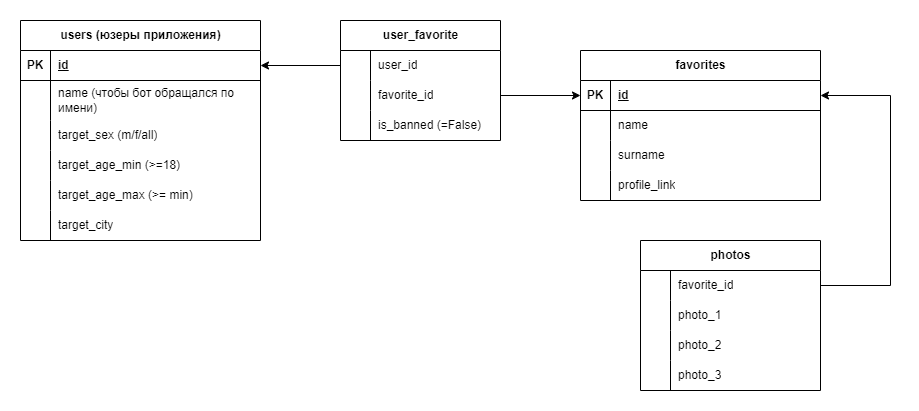
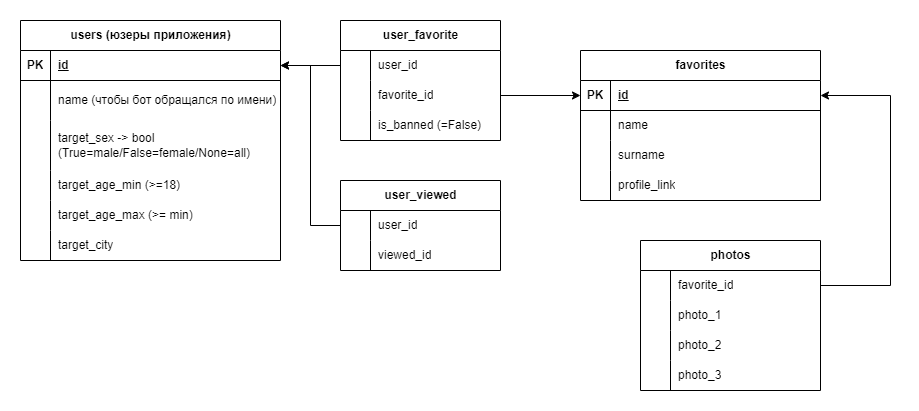
new funcs in temp.py

diff --git a/database/temp.py b/database/temp.py
@@ -112,26 +112,37 @@ users = [
      'target_age_min': 25, 'target_age_max': 32, 'target_city': 'Москва'},
     {'id': 55512122, 'name': 'Анатолий', 'target_sex': False,
      'target_age_min': 18, 'target_age_max': 24, 'target_city': 'Санкт-Петербург'},
-    # {'id': 55512123, 'name': 'Андрей', 'target_sex': False,
-    #  'target_age_min': 16, 'target_age_max': 18, 'target_city': 'Москва'},
-    # {'id': 55512124, 'name': 'Наталья'},
+    {'id': 55512123, 'name': 'Андрей', 'target_sex': False,
+     'target_age_min': 16, 'target_age_max': 18, 'target_city': 'Москва'},
+    {'id': 55512124, 'name': 'Наталья'},
     {'id': 55512125, 'name': 'Ипполит', 'target_sex': False,
      'target_age_min': 30, 'target_age_max': 35, 'target_city': 'Казань'}
 ]
 
 favorites = [
-    {'id': 55500111, 'name': 'Марья', 'surname': 'Болконская', 'profile_link': 'https://vk.com/id55500111'},
-    {'id': 55500112, 'name': 'Елена', 'surname': 'Курагина', 'profile_link': 'https://vk.com/id55500112'},
-    {'id': 55500113, 'name': 'Пётр', 'surname': 'Безухов', 'profile_link': 'https://vk.com/id55500113'},
-    {'id': 55512124, 'name': 'Наталья', 'surname': 'Ростова', 'profile_link': 'https://vk.com/id55512124'}
+    {'id': 55500111, 'name': 'Марья', 'surname': 'Болконская', 'profile_link': 'https://vk.com/id55500111',
+     'photos': {'photo_1': 111, 'photo_2': 222, 'photo_3': 333}},
+    {'id': 55500112, 'name': 'Елена', 'surname': 'Курагина', 'profile_link': 'https://vk.com/id55500112',
+     'photos': {'photo_1': 111}},
+    {'id': 55500113, 'name': 'Пётр', 'surname': 'Безухов', 'profile_link': 'https://vk.com/id55500113',
+     'photos': {'photo_1': 111, 'photo_2': 222, 'photo_3': 333}},
+    {'id': 55512124, 'name': 'Наталья', 'surname': 'Ростова', 'profile_link': 'https://vk.com/id55512124',
+     'photos': {'photo_1': 111, 'photo_3': 333}}
 ]
 
-photos = {'favorite_id': 55512124, 'photo_1': 111, 'photo_2': 222, 'photo_3': 333}
 user_favorite = {'user_id': 55512122, 'favorite_id': 55512124}
-blacklist = {'user_id': 55512122, 'favorite_id': 55500112}
 
 
-def add_record_user_table(id, name, target_sex, target_age_min, target_age_max, target_city):
+def add_record_user_table(id, name, target_sex=None, target_age_min=18, target_age_max=99, target_city=None):
+    """
+    # Создает запись в таблице users. Обязательно передать параметры id, name.
+    :param id: int
+    :param name: str
+    :param target_sex: bool (True - мужской, False - женский, None - не важно)
+    :param target_age_min: int (>=18)
+    :param target_age_max: int (>=target_age_min)
+    :param target_city: str
+    """
     conn = psycopg2.connect(database=db, user=user, password=password)
     with conn.cursor() as cur:
         try:
@@ -146,7 +157,7 @@ def add_record_user_table(id, name, target_sex, target_age_min, target_age_max, 
             conn.close()
 
 
-def update_user_info(id, name, target_sex, target_age_min, target_age_max, target_city):
+def update_user_info(id, name, target_sex=None, target_age_min=18, target_age_max=99, target_city=None):
     conn = psycopg2.connect(database=db, user=user, password=password)
     with conn.cursor() as cur:
         cur.execute("""UPDATE users SET name = %s WHERE id = %s""", (name, id))
@@ -188,7 +199,7 @@ def add_record_user_favorite_table(user_id, favorite_id, is_banned=False):
             conn.close()
 
 
-def add_record_photos_table(favorite_id, photo_1, photo_2, photo_3):
+def add_record_photos_table(favorite_id, photo_1=None, photo_2=None, photo_3=None):
     conn = psycopg2.connect(database=db, user=user, password=password)
     with conn.cursor() as cur:
         try:
@@ -225,12 +236,10 @@ def add_test_data():
     for user in users:
         add_record_user_table(**user)
     for favorite in favorites:
-        add_record_favorite_table(**favorite)
-    add_record_photos_table(**photos)
-    add_record_user_favorite_table(**user_favorite)
-    send_to_blacklist(**blacklist)
-    add_record_viewed_table(55512122, 55512124)
-    add_record_viewed_table(55512122, 55500112)
+        add_favorite(55512122, favorite)
+    send_to_blacklist(55512121, favorites[-1])
+    add_record_viewed_table(55512121, 55512124)
+    add_record_viewed_table(55512121, 55500112)
     update_user_info(**{'id': 55512121, 'name': 'Вера', 'target_sex': True,
      'target_age_min': 25, 'target_age_max': 32, 'target_city': 'Санкт-Петербург'})
 
@@ -291,22 +300,40 @@ def get_last_viewed(user_id):
 
 # Результирующие функции для кнопок действия
 
-def send_to_blacklist(user_id, favorite_id):
-    add_record_user_favorite_table(user_id, favorite_id, is_banned=True)
+def send_to_blacklist(user_id, viewed_data_dict):
+    """
+    Результирующая функция, добавляет новые строки в таблицы favorite, photos, user_favorite, user_viewed
+    :param user_id: int
+    :param viewed_data_dict: {'id': int, 'name': str, 'surname': str, 'profile_link': str,
+    photos: {photo_1: str, photo_2: str, photo_3: str}}
+    """
+    add_record_favorite_table(viewed_data_dict['id'], viewed_data_dict['name'], viewed_data_dict['surname'],
+                              viewed_data_dict['profile_link'])
+    add_record_photos_table(viewed_data_dict['id'], **viewed_data_dict['photos'])
+    add_record_user_favorite_table(user_id, viewed_data_dict['id'], is_banned=True)
+    add_record_viewed_table(user_id, viewed_data_dict['id'])
 
 
-# def add_favorite(user_data_dict, viewed_data_dict):
-#     add_record_user_favorite_table(user_data_dict['id'], viewed_data_dict['id'])
-#     add_record_photos_table(viewed_data_dict['id'], viewed_data_dict['photo_1'],
-#                             viewed_data_dict['photo_2'], viewed_data_dict['photo_3'])
-#     add_record_user_favorite_table(user_data_dict['id'], viewed_data_dict['id'])
+def add_favorite(user_id, viewed_data_dict):
+    """
+    Результирующая функция, добавляет новые строки в таблицы favorite, photos, user_favorite, user_viewed.
+    :param user_id: int
+    :param viewed_data_dict: {'id': int, 'name': str, 'surname': str, 'profile_link': str,
+    photos: {photo_1: str, photo_2: str, photo_3: str}}
+    """
+    add_record_favorite_table(viewed_data_dict['id'], viewed_data_dict['name'], viewed_data_dict['surname'],
+                              viewed_data_dict['profile_link'])
+    add_record_photos_table(viewed_data_dict['id'], **viewed_data_dict['photos'])
+    add_record_user_favorite_table(user_id, viewed_data_dict['id'])
+    add_record_viewed_table(user_id, viewed_data_dict['id'])
 
 
 def get_favorites_list(user_id):
     """
     :param user_id: int
     :return: list of dicts like this:
-    {'id': 55512124, 'name': 'Наталья', 'surname': 'Ростова', 'profile_link': 'https://vk.com/id55512124'}
+    [{'profile_link': 'https://vk.com/id55512124', 'name': 'Наталья', 'surname': 'Ростова',
+    'photo_1': '111', 'photo_2': None, 'photo_3': '333'}, ...]
     """
     conn = psycopg2.connect(database=db, user=user, password=password)
     with conn.cursor() as cur:
@@ -321,15 +348,15 @@ def get_favorites_list(user_id):
         column_names = [col[0] for col in desc]
         data = [dict(zip(column_names, row)) for row in cur.fetchall()]
     conn.close()
-    return data[0]
+    return data
 
 
 if __name__ == '__main__':
     add_test_data()
-    print(get_user_info('48414363'))
-    print(get_favorite_info(55512124))
-    print(get_photos(55512124))
-    print(get_favorites_list(55512122))
-    print(get_user_info('48414363'))
-    print(get_favorite_info('55512124'))
-    print(get_last_viewed(55512122))
+    print(1, get_user_info('48414363'))
+    print(2, get_favorite_info(55512124))
+    print(3, get_photos(55512124))
+    print(4, get_favorites_list(55512122))
+    print(5, get_user_info(55512124))
+    print(6, get_favorite_info('55512124'))
+    print(7, get_last_viewed(55512122))
